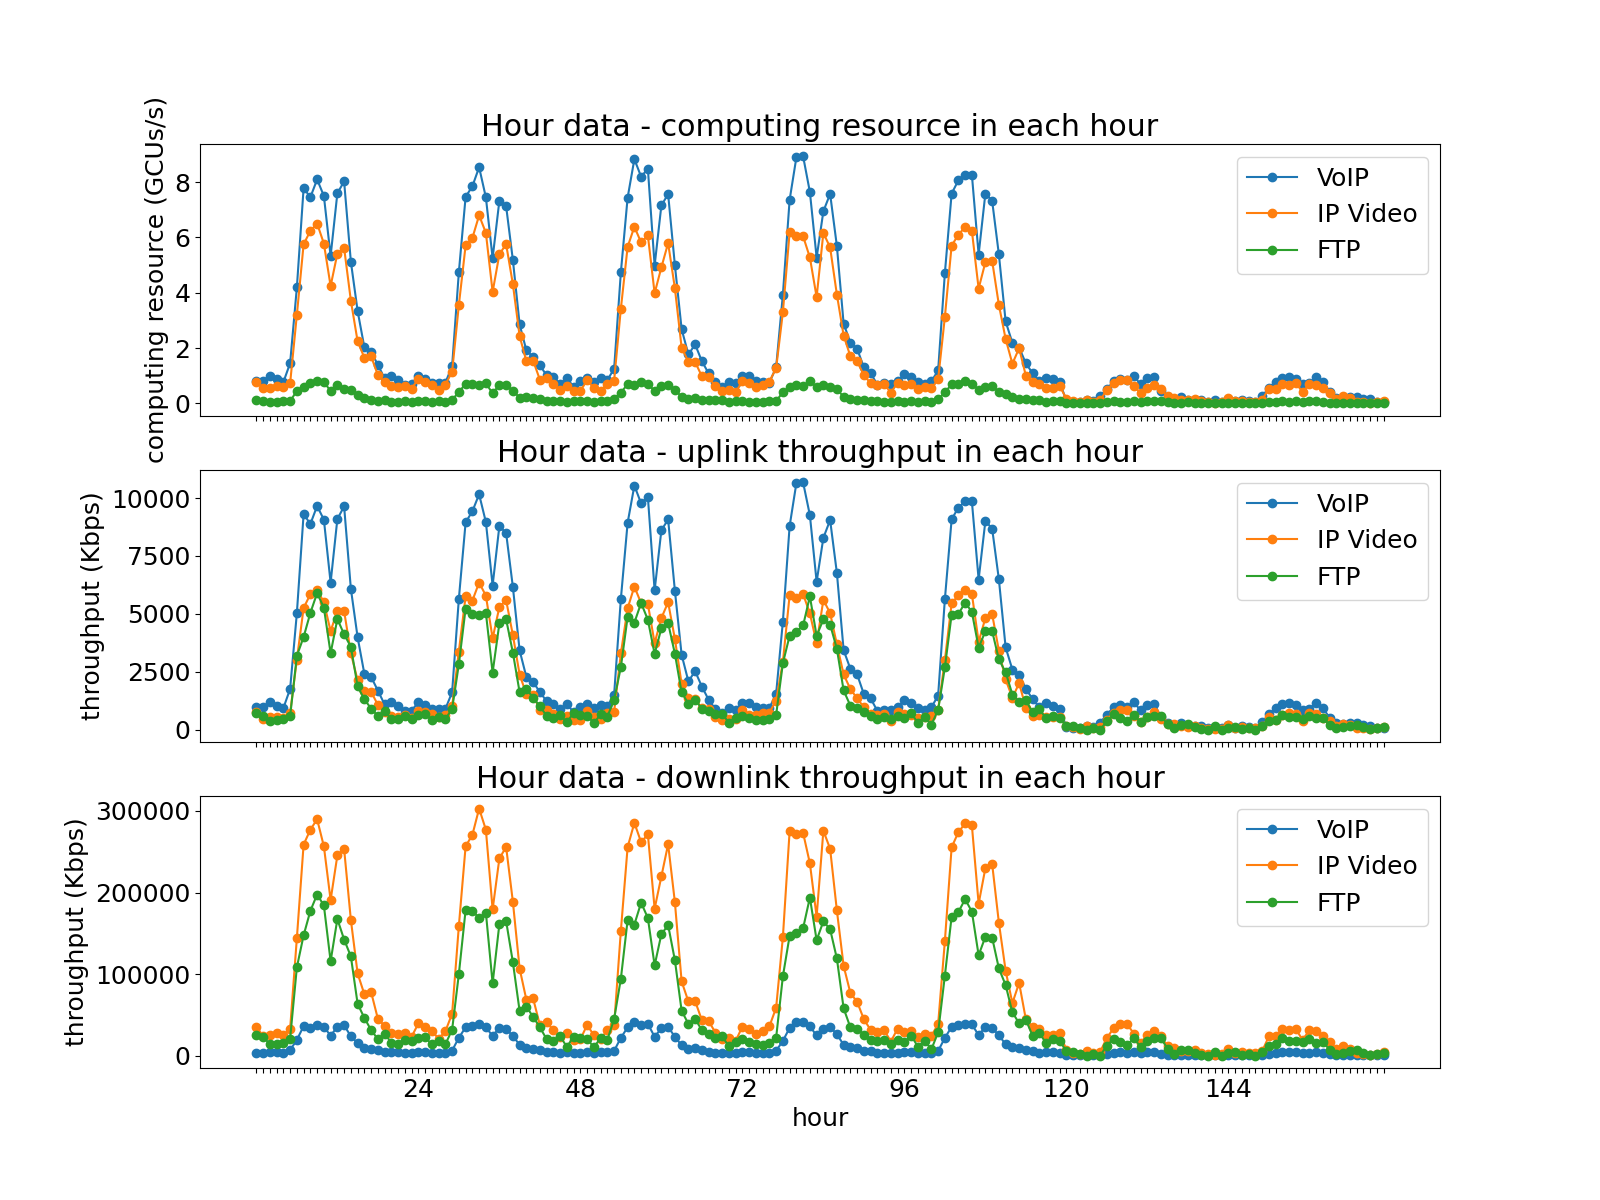
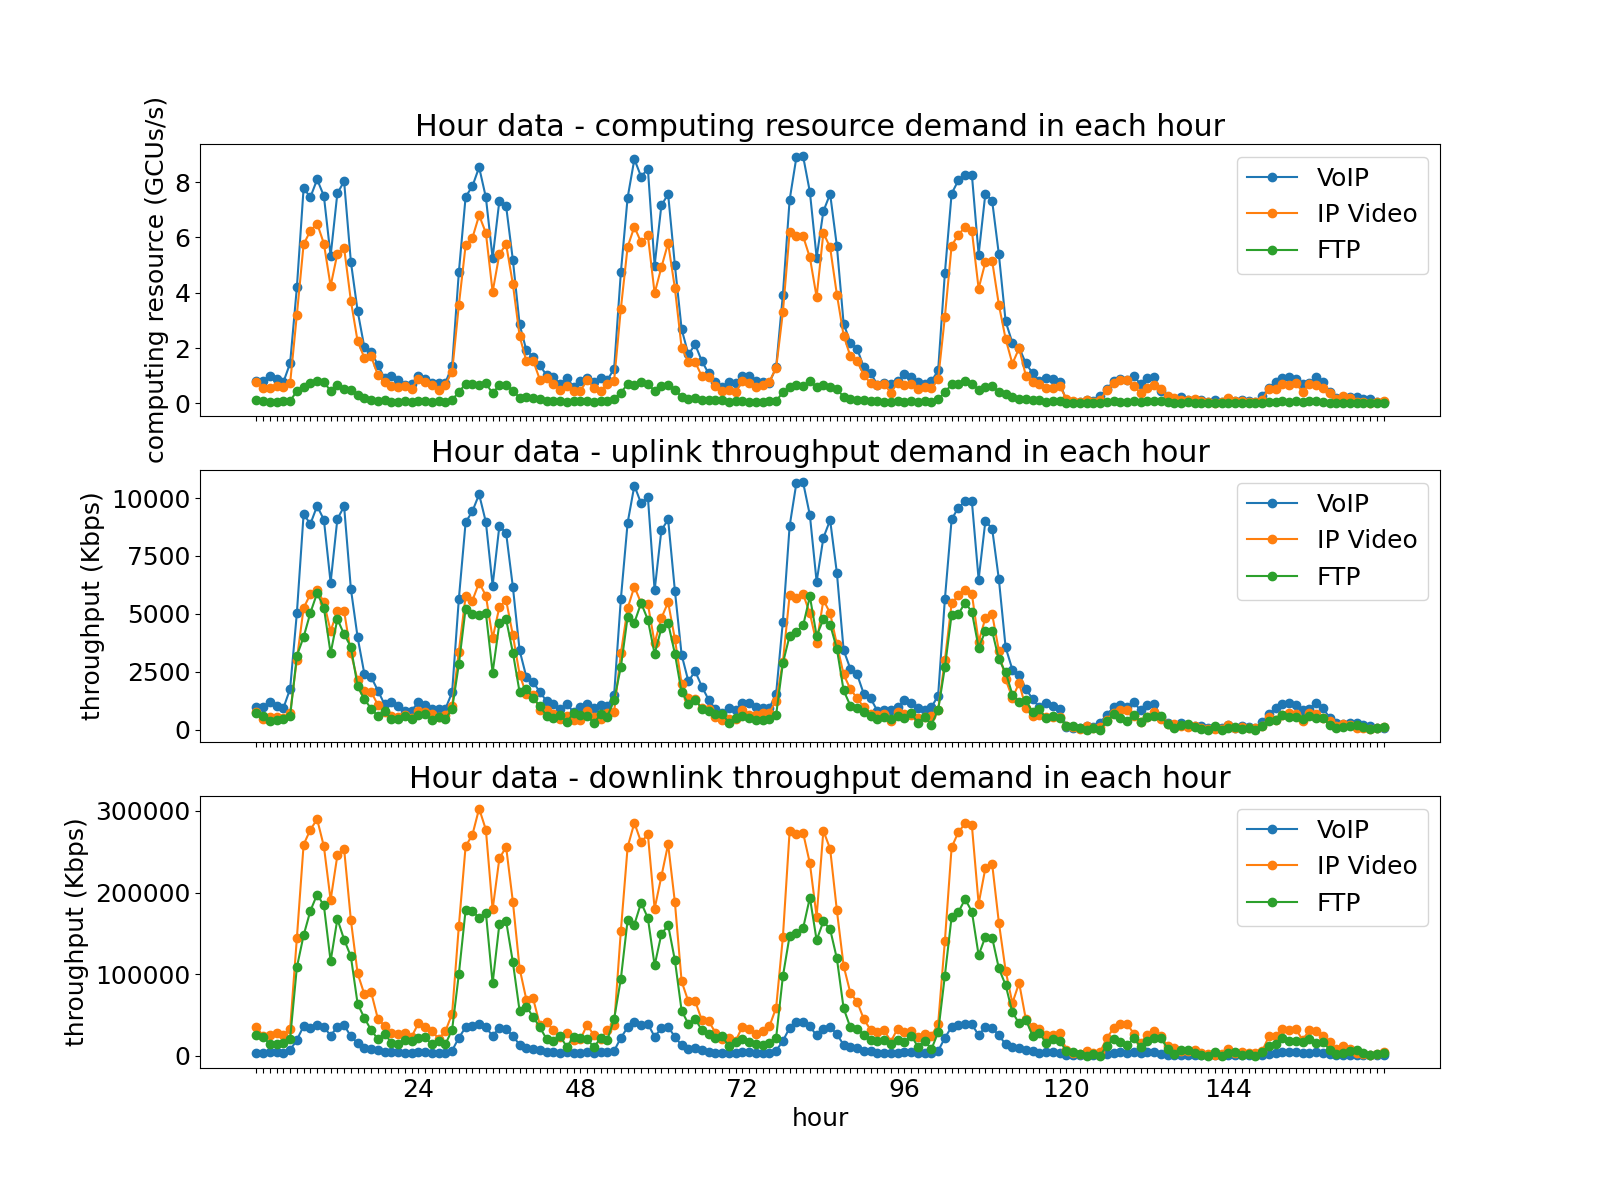
Tiny fix.

Changed region(s): [[0.2812, 0.6167, 0.75, 0.6783], [0.25, 0.0925, 0.75, 0.1233], [0.2812, 0.37, 0.75, 0.4008]]

diff --git a/plot_metrics_compare.py b/plot_metrics_compare.py
@@ -325,17 +325,17 @@ def plot_hour_data():
     plt.figure(figsize=figsize)
     # computing resource
     plt.subplot(311)
-    plt.title('Hour data - computing resource in each hour')
+    plt.title('Hour data - computing resource demand in each hour')
     plt.ylabel('computing resource (GCUs/s)')
     plot_2d_hour_data(data[:, :, 0], flag = False)
     # T up
     plt.subplot(312)
-    plt.title('Hour data - uplink throughput in each hour')
+    plt.title('Hour data - uplink throughput demand in each hour')
     plt.ylabel('throughput (Kbps)')
     plot_2d_hour_data(data[:, :, 1], flag = False)
     # T down
     plt.subplot(313)
-    plt.title('Hour data - downlink throughput in each hour')
+    plt.title('Hour data - downlink throughput demand in each hour')
     plt.xlabel('hour')
     plt.ylabel('throughput (Kbps)')
     plot_2d_hour_data(data[:, :, 2])
